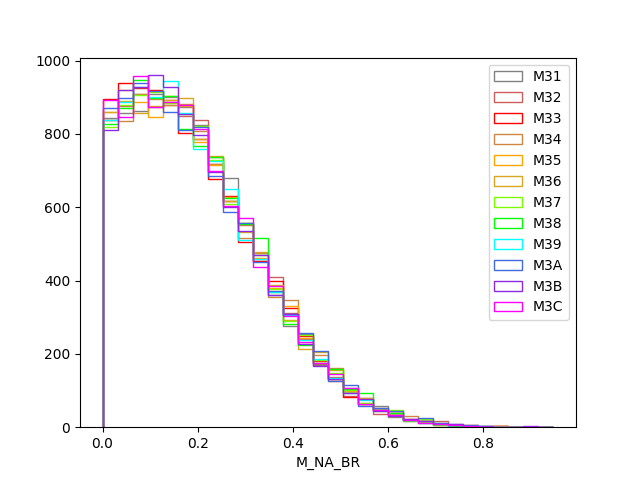
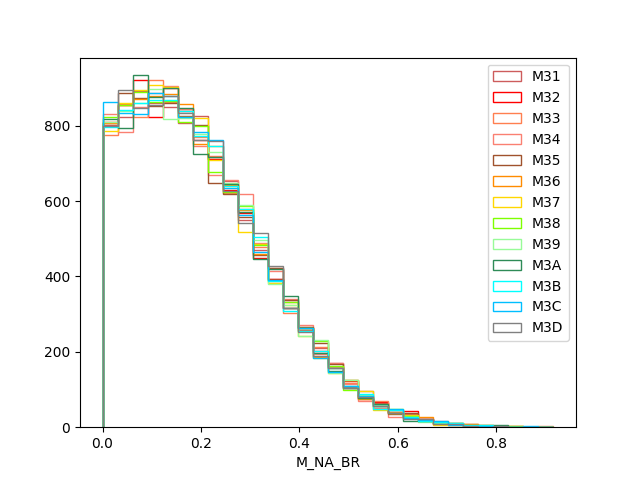
added documentation; updated prior plots

diff --git a/ABC/windows.py b/ABC/windows.py
@@ -1,3 +1,31 @@
+"""
+Process the specified VCF file, applies the structure defined in the
+sample list file and filter sites based on a set of criteria based on
+parameters set in params.yaml.
+
+Sites are counted as follows:
+
+* excl: excluded because of missing data
+* incl: included (complement)
+* disc: discarded based on MAF
+* mini: discarded based in missing data per population
+* used: remaining sites
+
+Used sites are grouped following the criterion:
+
+* Same chromosome
+* Site further than max_dist bp away from previous site of the window.
+* Site further than max_width bp away from previous site of the window.
+
+The windows (called "bags" in the script) are then filtered based on the
+number of sites in each windows. The number of windows according to a
+hardcoded set of thresholds are reported, and a given value is used to
+export data in the windows/ directory. Fasta alignments are generated
+by the concatenated of retained SNPs in each windows, and an info file
+is exported with counters and the list of missing data proportion of
+each sample.
+"""
+
 import egglib, math, yaml, pathlib
 from matplotlib import pyplot
 
@@ -52,7 +80,6 @@ while vcf.read():
         continue
 
     if vcf.get_chrom() != chrom or vcf.get_pos() - pos > cfg['windows']['max_dist'] or vcf.get_pos() - bags[-1][0][1] > cfg['windows']['max_width']:
-        # create new window if: different chromosome or further than MAX_DIST from start of current windows or further than MAX_WIDTH than first site of window
         chrom = vcf.get_chrom()
         pos = vcf.get_pos()
         bags.append([])
@@ -93,7 +120,7 @@ idx.append(d2['OTG'][0])
 (pathlib.Path('windows') / 'infos').mkdir(parents=True, exist_ok=True)
 cur = 0
 for win in bags:
-    if len(win) >= 5:
+    if len(win) >= params['windows']['min_sites']:
         cur += 1
 
         # create alignment

diff --git a/ABC/priors.py b/ABC/priors.py
@@ -9,7 +9,8 @@ draws = {}
 for model in [simul.Model31, simul.Model32, simul.Model33,
               simul.Model34, simul.Model35, simul.Model36,
               simul.Model37, simul.Model38, simul.Model39,
-              simul.Model3A, simul.Model3B, simul.Model3C]:
+              simul.Model3A, simul.Model3B, simul.Model3C,
+              simul.Model3D]:
     m = model()
     print(m.name)
     m.draw()
@@ -25,10 +26,11 @@ for p in pars:
     mini = 0
     maxi = 0
     for draw in draws.values():
-        if min(draw[p]) < mini: mini = min(draw[p])
-        if max(draw[p]) > maxi: maxi = max(draw[p])
+        if p in draw and min(draw[p]) < mini: mini = min(draw[p])
+        if p in draw and max(draw[p]) > maxi: maxi = max(draw[p])
     for mod, col in cfg['models'].items():
-        pyplot.hist(draws[mod][p], bins=cfg['priors']['nbins'], histtype='step', color=col, label=mod, range=(mini, maxi))
+        if p in draws[mod]:
+            pyplot.hist(draws[mod][p], bins=cfg['priors']['nbins'], histtype='step', color=col, label=mod, range=(mini, maxi))
     pyplot.xlabel(p)
     pyplot.legend()
     pyplot.savefig(f'priors/{p}.png')

diff --git a/ABC/stats.py b/ABC/stats.py
@@ -1,16 +1,16 @@
 """
-Process the VCF file to compute observed values of statistics
+Process the VCF file to compute observed values of statistics. The
+script can be imported to be used on simulated data sets. See the
+comments of the Cstats class. Alternatively, it can be run to compute
+statistics from the observed data sets (through the main() function
+which is called if the script isn't imported. In that case. the observed
+statistics go to obs.txt.
 """
 
 import pathlib, egglib, sys, re, yaml
 
 with open('params.yml') as f:
     cfg = yaml.load(f, yaml.Loader)
-
-# configurable parameters
-N_NA = 46
-N_BR = 20
-N_EU = 141
 
 # main function
 def main():

diff --git a/ABC/simul.py b/ABC/simul.py
@@ -1,3 +1,12 @@
+"""
+Perform simulation conditioned on the windows structure according to
+prior generators and models defined hereafter. The observed set of
+statistics is used to get the list of stats. For each chunk of
+simulations and for each model, two files are populated: one with the
+values of parameters (defined by the model) and one with the values of
+statistics.
+"""
+
 import egglib, lzmp, math, stats, re, random, pathlib, yaml
 
 # load configuration

diff --git a/ABC/README.md b/ABC/README.md
@@ -5,26 +5,80 @@ This document lists the scripts and results in this directory and the
 order in which they should considered. More details are available as
 comments within each of the scripts.
 
+params.yml
+----------
+
+YAML-formatted configuration file with parameters used by the scripts in
+the pipeline. Some parameters are used by several scripts, some by only
+one script (in the latter case they are grouped in a specific section).
+
 windows.py
 ----------
+
+Extracts sites from the input VCF and group them in windows.
+
+Requires: VCF + sample structure.
+Generates: windows.yml, windows/*
 
 stats.py
 --------
 
-priors.py
----------
+By default, compute statistics from the observed dataset. If imported,
+computes statistics from simulated datasets.
+
+Requires: windows.yml, windows/*
+Generates: obs.txt (unless imported)
 
 simul.py
 --------
 
+Run simulations according to several models. If imported, expose models
+and prior generators. Models are hardcoded in the file.
+
+Requires: stats.py, windows.yml, windows/*
+Generates: simuls/* (unless imported)
+
+priors.py
+---------
+
+Performs a few samples from each model to represent the prior
+distribution of parameters (without any bias). Models are hardcoded in
+the file.
+
+Requires: simul.py
+Generates: priors/*
+
 clean.py
 --------
+
+Utility script that removes all pairs of output files which have less
+than the required number of simulations. All files in simuls/ are
+treated.
 
 plot.py
 -------
 
+Perform prior distribution of parameters (after filtering for replicates
+with e.g. no polymorphic sites), and distribution of statistics. Process
+all models defined in params.yml.
+
+Requires: simul.py, simuls/*, obs.txt
+Generates: plots/*
+
 lda.py
 ------
 
+Generate a LDA plot. Process all models defined in params.yml.
+
+Requires: simuls/*, obs.txt
+Generates: lda.png
+
 abcranger.py
 ------------
+
+Perform model choice using a range of numbers of replicates (in order to
+assess robustness of answer), and parameter estimation using the best
+model at the last number of replicates.
+
+Requires: simuls/*, obs.txt
+Generates: abcranger.res
